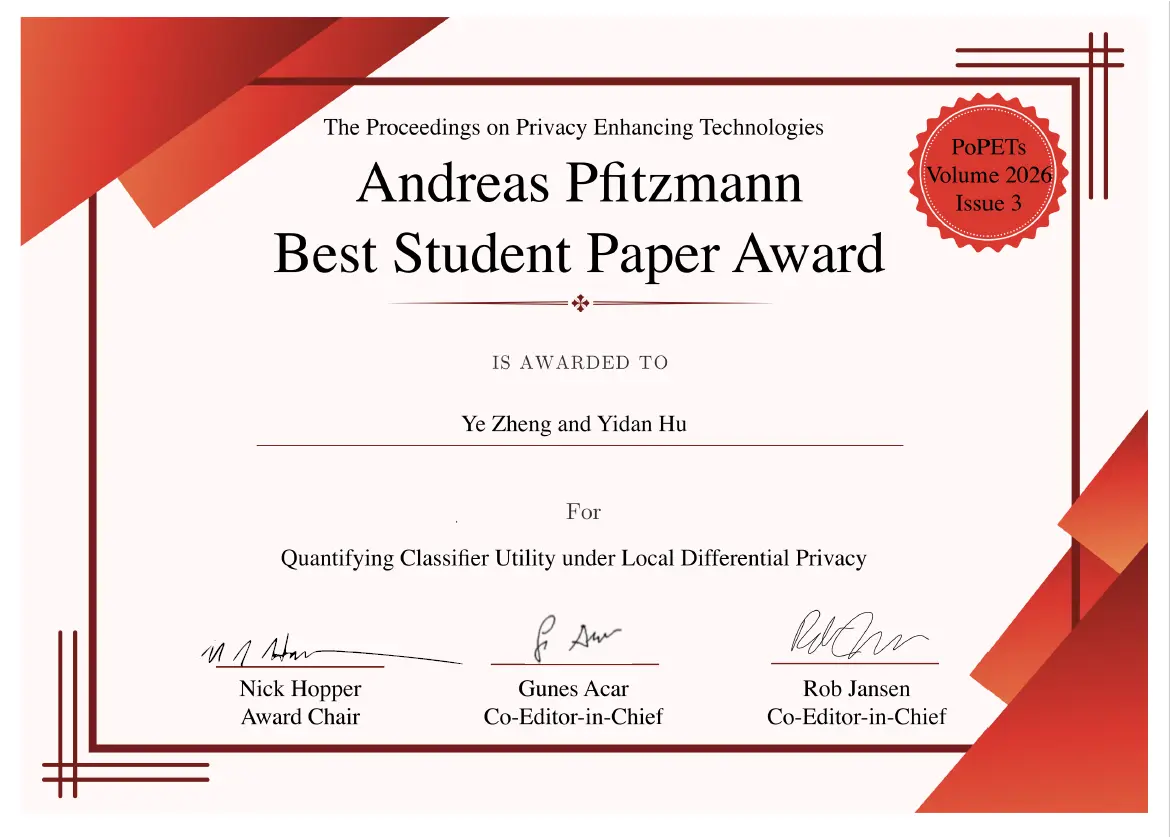
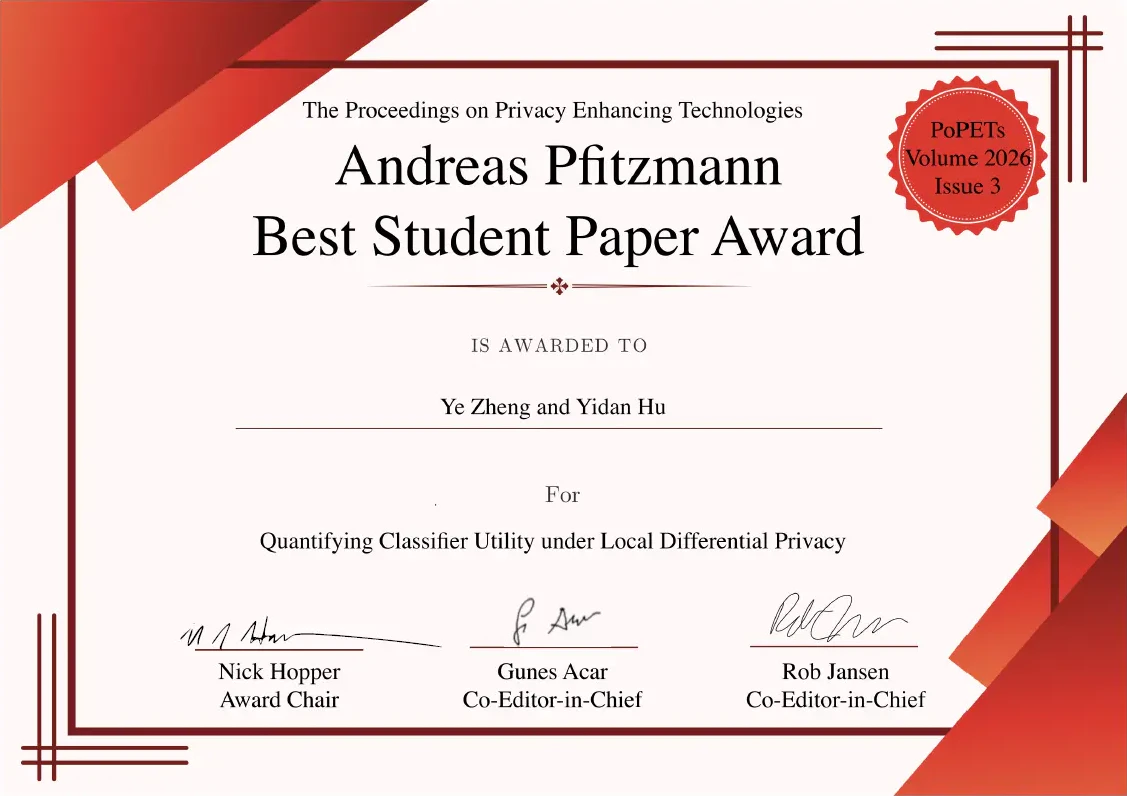
Updated best paper

diff --git a/index.html b/index.html
@@ -124,7 +124,7 @@
         <a class="button-links" href="/data/phd/qcu-slides.pdf">Slides</a>
         <p>
           <span class="muted-text-color">Ye Zheng, Yidan Hu</span><br>
-          <strong>[PETS'26]:</strong> Privacy Enhancing Technologies Symposium <a id="pets-26-best-paper-link" class="best-paper" href="https://petsymposium.org/2026/student-paper-award.php">★ The Andreas Pfitzmann Best Student Paper Award</a>
+          <strong>[PETS'26]:</strong> Privacy Enhancing Technologies Symposium <a id="pets-26-best-paper-link" class="best-paper" href="https://petsymposium.org/student-paper-award.php">★ Andreas Pfitzmann Best Student Paper Award</a>
         </p>
       </article>
       <article class="paper-entry">
@@ -190,7 +190,7 @@
     <h2 class="heading">Awards</h2>
     <div class="awards-list">
       <div class="paper-entry">
-        <p><strong>The Andreas Pfitzmann Best Student Paper Award</strong> - PETS Award Committee, March 2026</p>
+        <p><strong>Andreas Pfitzmann Best Student Paper Award</strong> - PETS Award Committee, March 2026</p>
         <p><strong>Artifact Award Runner-up</strong> - PETS Artifact Evaluation Committee, August 2025</p>
         <p><strong>Outstanding Graduate</strong> - Shenzhen University, June 2023</p>
         <p><strong>National Scholarship</strong> - Ministry of Education, China, September 2022</p>

diff --git a/script.js b/script.js
@@ -181,7 +181,6 @@ function initializeTooltips() {
   tippyInstance("#pets-26-best-paper-link", {
     content: "<img src='./data/phd/PoPETs-Best-Student-Paper-Award.webp' alt='Best Student Paper Award' style='display: block; width: min(300px, calc(100vw - 32px)); max-width: 100%; height: auto; margin:3px auto;'>",
     allowHTML: true,
-    interactive: true,
   });
   if (document.querySelector(".publications-list")) {
     tippyInstance.delegate(".publications-list", {
